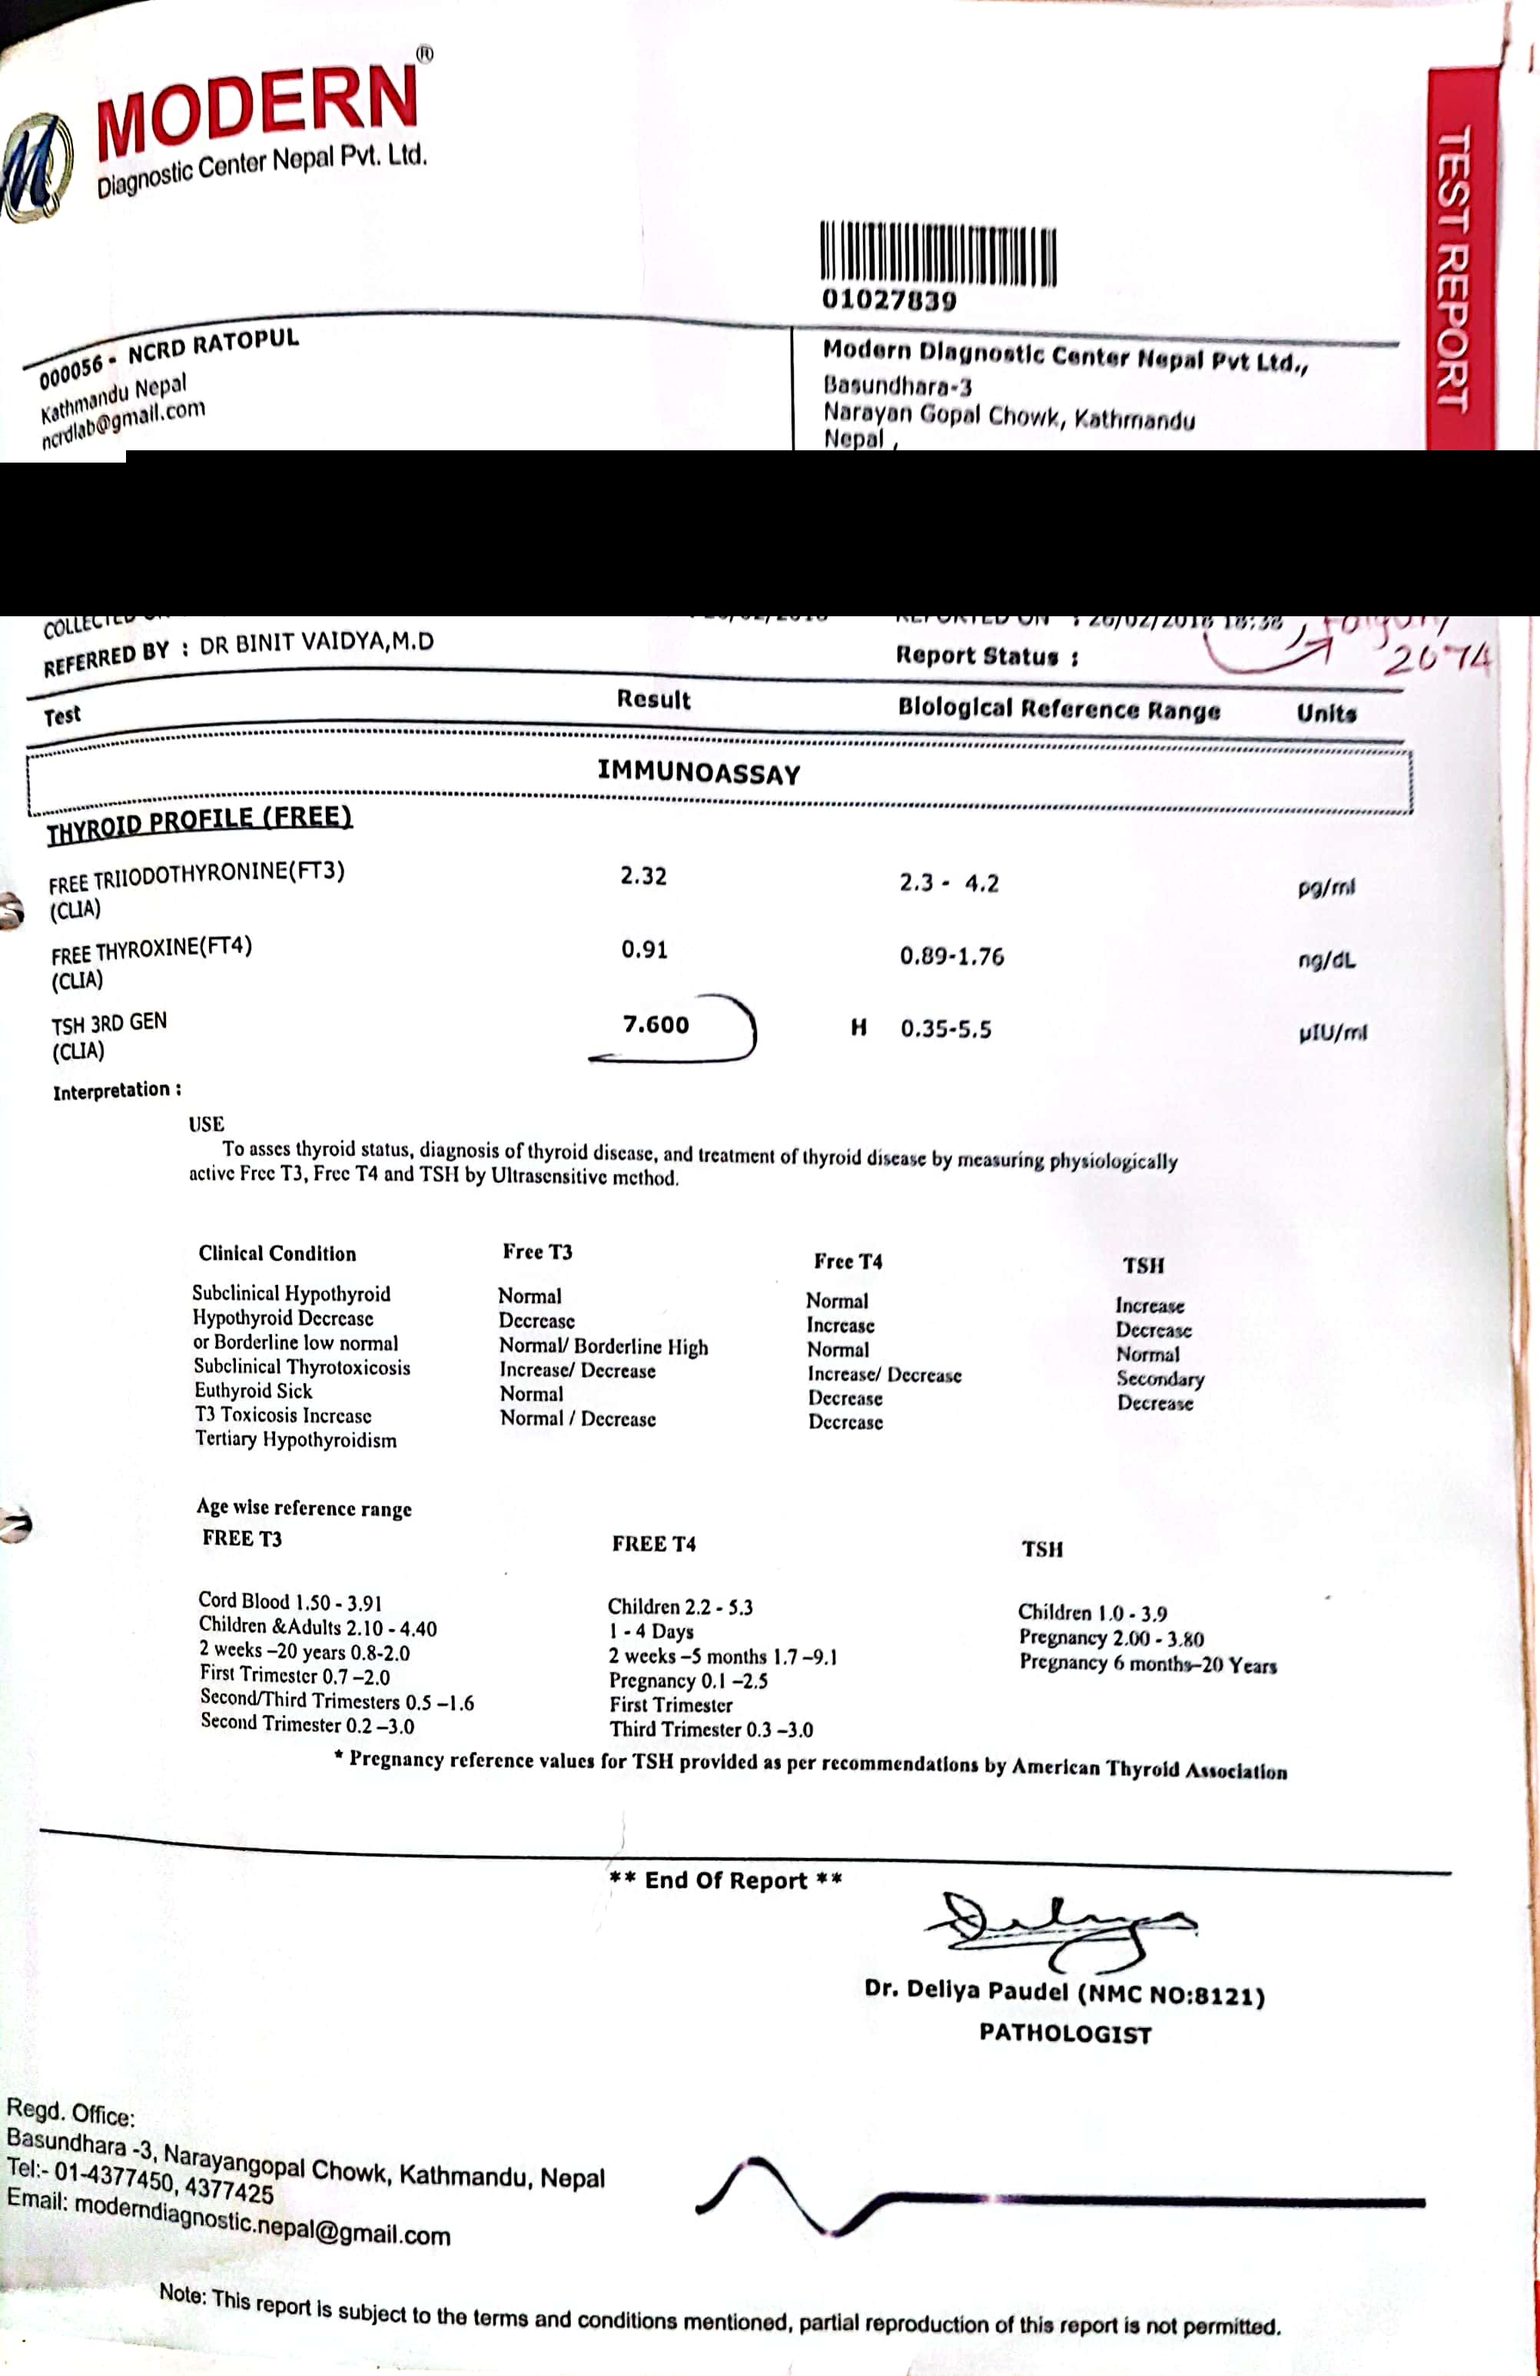
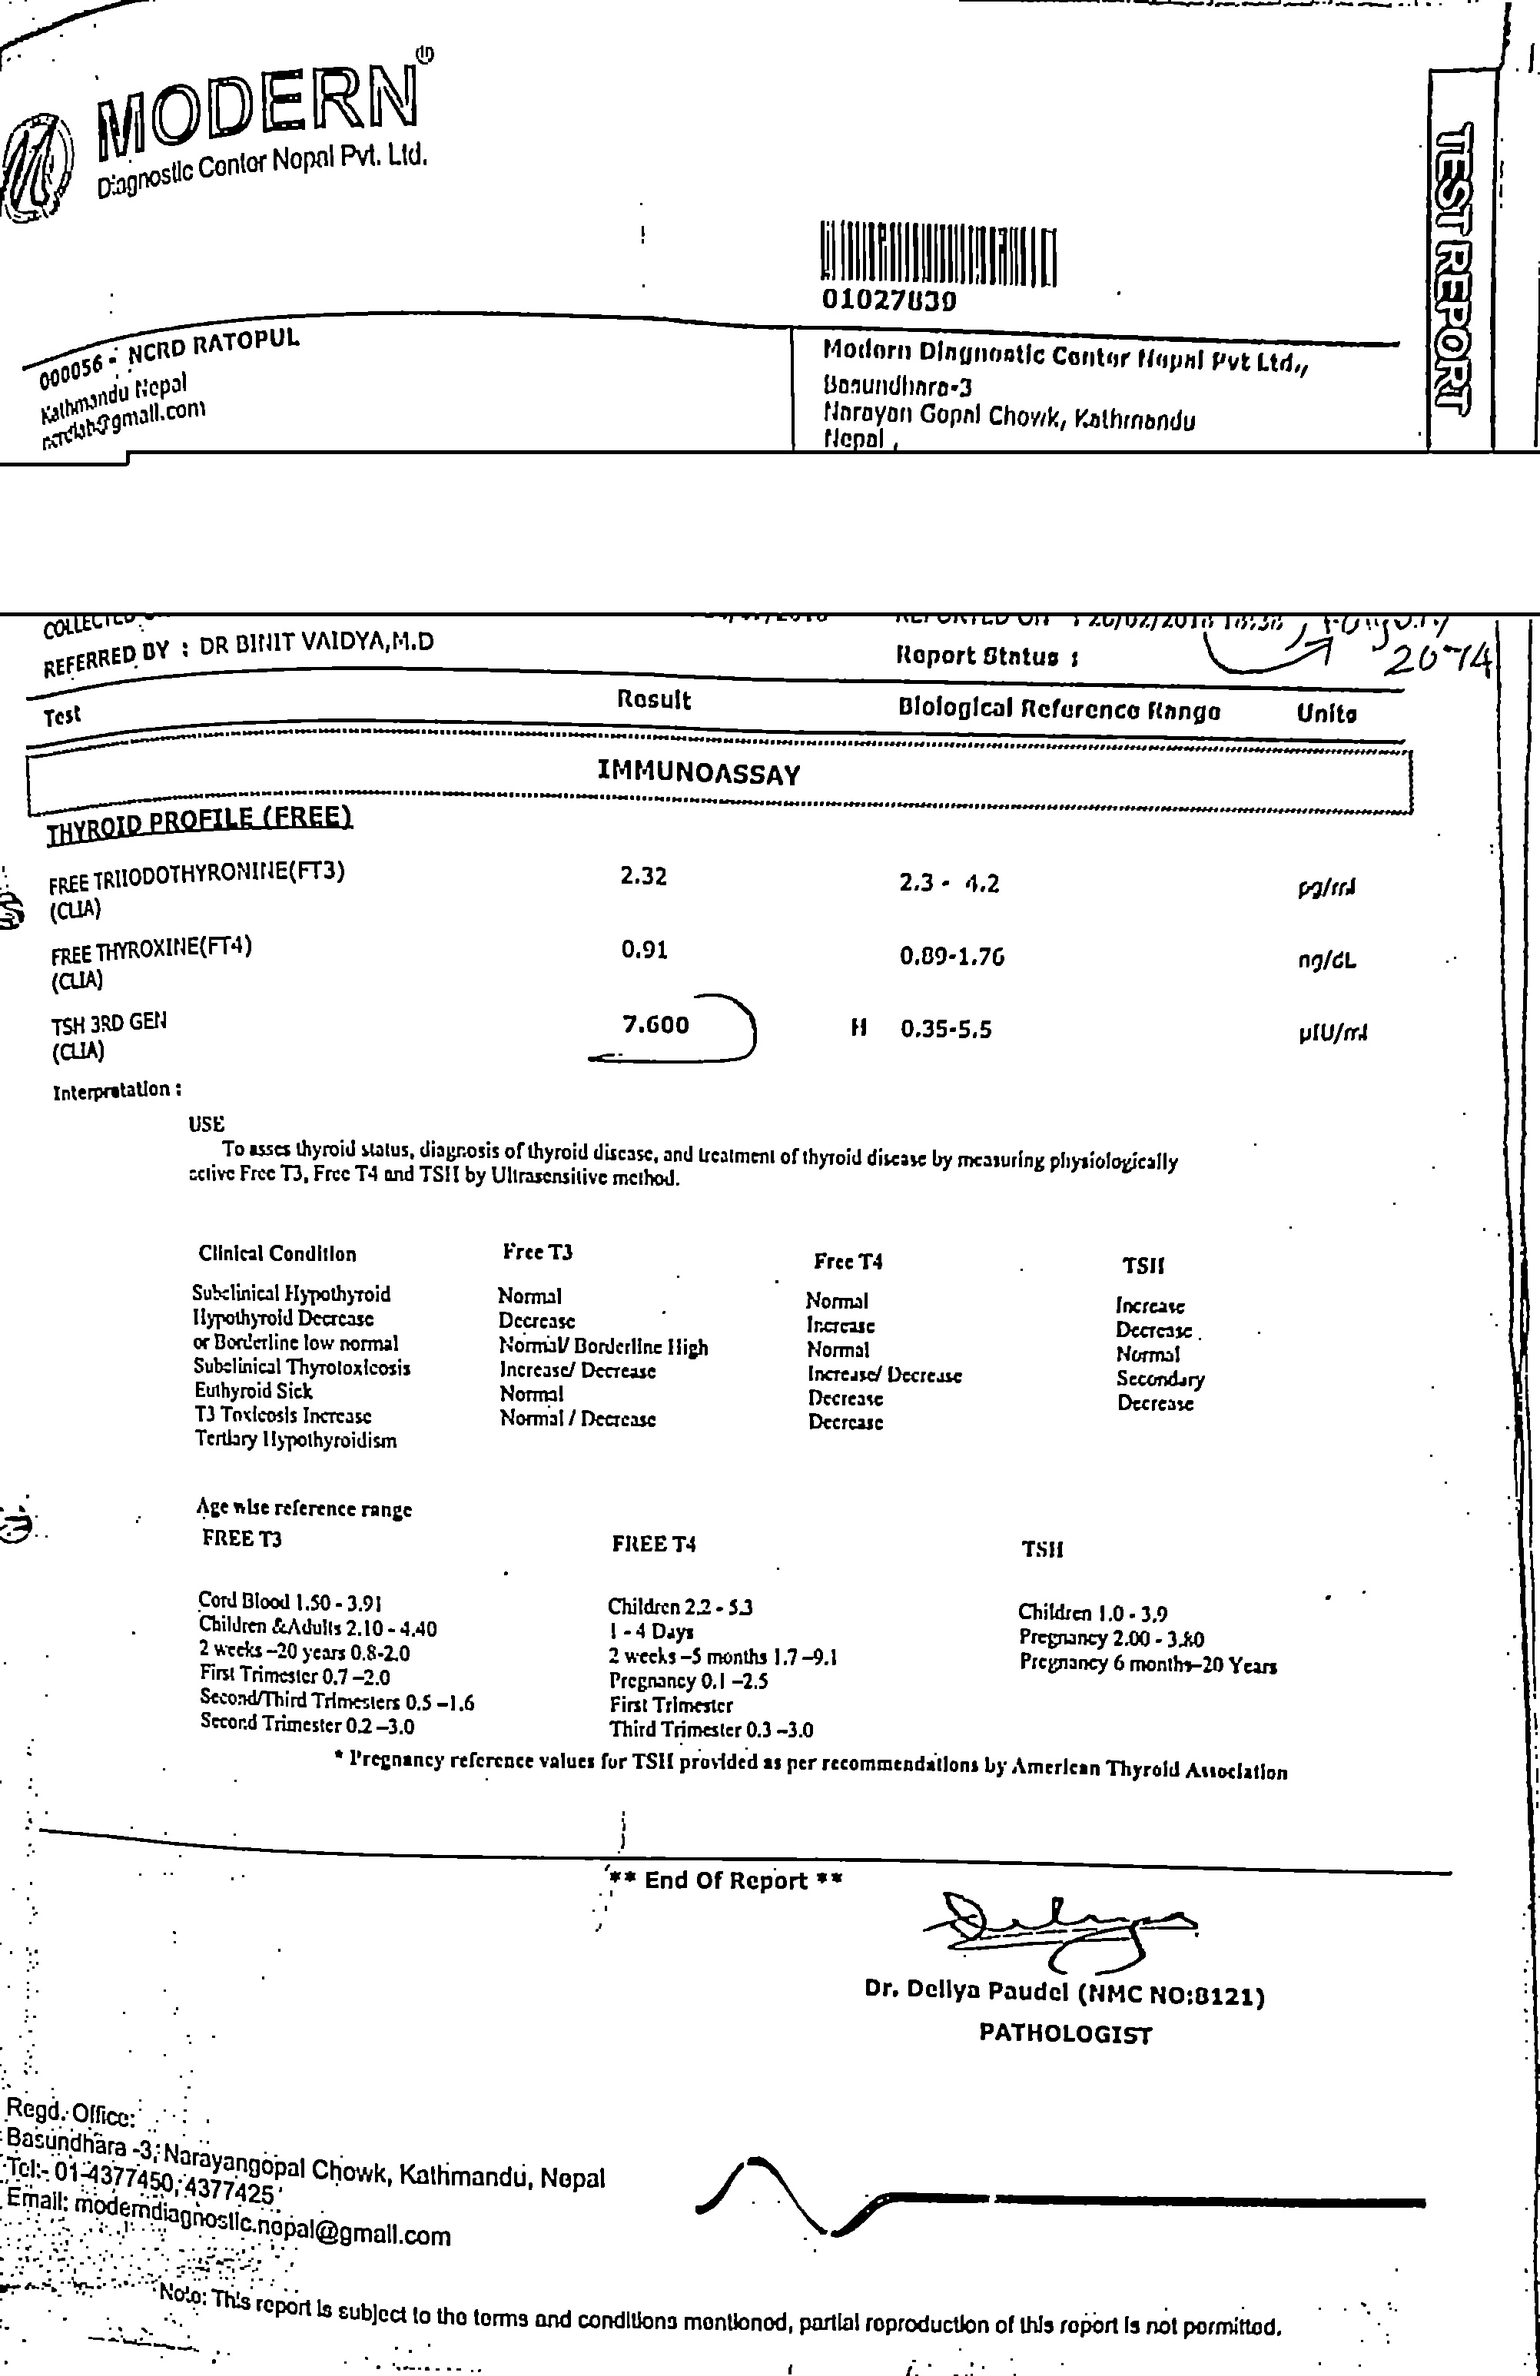
two pass blurring

diff --git a/identity.py b/identity.py
@@ -13,15 +13,18 @@ def resetter(string_dict):
         string_dict[key] = 0
 
 
-def black_box(image, x, y, w, h):
-    black_region = np.zeros((h, w, 3), dtype=np.uint8)
+def black_box(image, x, y, w, h,_):
+    if _!=0:
+       black_region= np.zeros((h, w, 3), dtype=np.uint8)
+    else: 
+        black_region=np.zeros((h,w), dtype=np.uint8)
     black_region.fill(0)  
     image[y:y+h, x:x+w] = black_region
     
     return image
 
 def blurrer(image):
-    height,width,_=image.shape
+    height, width, _ = image.shape if len(image.shape) == 3 else (*image.shape, 0)
     text_data = pytesseract.image_to_data(image, output_type=pytesseract.Output.DICT)
     print(text_data['text'])
     for i in range(len(text_data['text'])):
@@ -29,7 +32,7 @@ def blurrer(image):
         for str in strings_to_check:
             if string_dict[str]==0:
                 if str in text.lower():
-                    incx=5000
+                    incx=5000                           #tweak these values to increase the size of the blur
                     incy=200
                     decx=1000
                     decy=100
@@ -45,7 +48,7 @@ def blurrer(image):
                         incy=height-y+decy
                 
                     x, y, w, h = text_data['left'][i]-decx, text_data['top'][i]-decy, incx, incy
-                    image = black_box(image, x, y, w, h)
+                    image = black_box(image, x, y, w, h,_)
                     string_dict[str]=1
                     string_dict['name']=string_dict['mane']
                     string_dict['address']=string_dict['addres']=string_dict['adress']
@@ -58,13 +61,14 @@ def blurrer(image):
 def identityremover(input_image_path,output_image_path):
     image=cv2.imread(input_image_path)
     image=blurrer(image)
-    #image=preprocess.preprocess_for_ocr(image)
-    #image=blurrer(image)                            #ek choti preprocess nagari image blur garne ani tyo blur gareko lai feri preprocess garera blur garne
+    image=preprocess.preprocess_for_ocr(image)      #comment out this line and line 65 for faster loading tara kunai kunai xutna sakne chance badi hunxaa
+    image=blurrer(image)                            #ek choti preprocess nagari image blur garne ani tyo blur gareko lai feri preprocess garera blur garne
     resetter(string_dict)
     cv2.imwrite(output_image_path,image)
-    return image                                       #aile lai euta pass le nai pugyo last ma lol
+    return image                                       
 
 
 
 
 
+#identityremover("reports_unedited/reports_6.jpg","helo.jpg")
